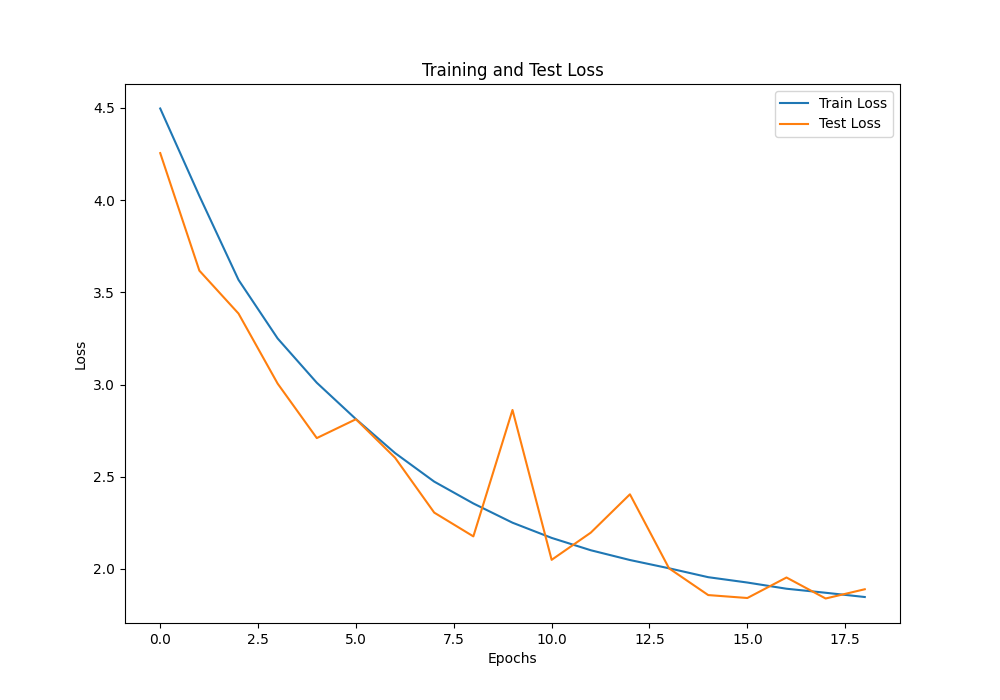
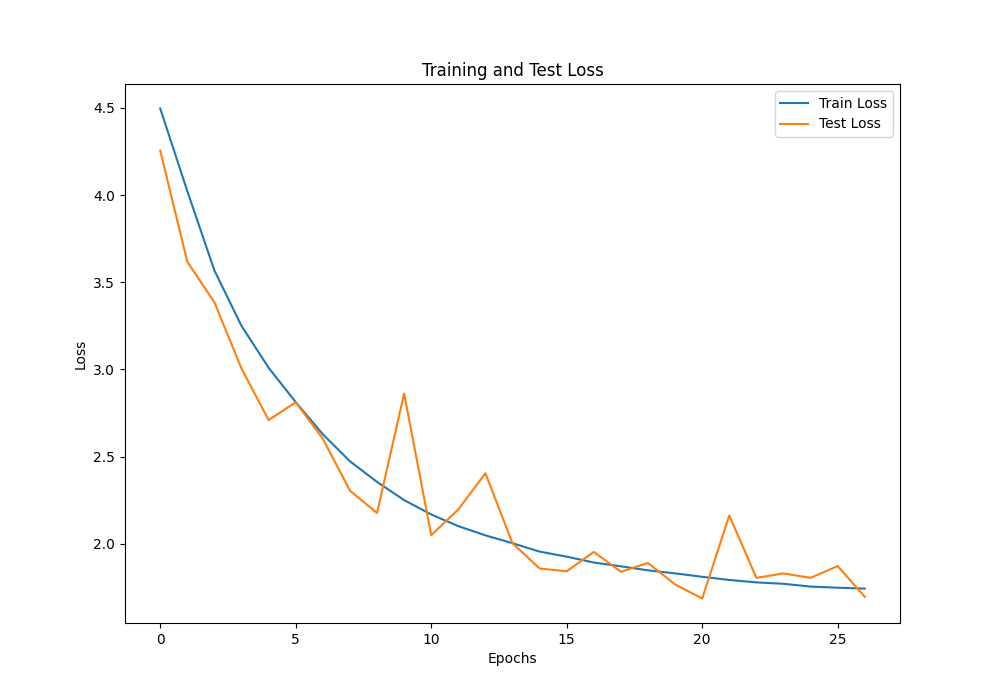
Added data fingerprint module

diff --git a/Architectures/UNet/Data_fingerprint.py b/Architectures/UNet/Data_fingerprint.py
@@ -1,0 +1,177 @@
+# %%
+from pathlib import Path
+from collections import Counter
+import matplotlib.pyplot as plt
+import itk
+from dataclasses import dataclass
+import numpy as np
+
+# Reading data
+IMAGE_EXTS = {".png", ".jpg", ".jpeg", ".tif", ".tiff"}
+DATA_FOLDER = "/Users/gastoncrecikeinbaum/Library/CloudStorage/SynologyDrive-XDMD/DaVinci/Sources/Xyall/AZ"
+data_path = Path(DATA_FOLDER)
+
+# Pixels sampled per image for intensity stats (full 4K images are overkill)
+SAMPLE_PER_IMAGE = 50_000
+_rng = np.random.default_rng(0)
+
+# %% Data features
+
+
+def _normalize_format(image):
+    if isinstance(image, itk.Image):
+        return itk.array_from_image(image)
+    else:
+        raise TypeError("Image format is not array or itk.image")
+
+
+def _to_rgb(arr):
+    """Standardize any image array to (H, W, 3): expand grayscale, drop alpha."""
+    if arr.ndim == 2:                       # grayscale -> replicate to 3 channels
+        return np.repeat(arr[..., None], 3, axis=-1)
+    return arr[..., :3]                     # RGB stays, RGBA drops alpha
+
+
+CHANNELS = ("red", "green", "blue")
+
+
+@dataclass
+class DatasetFingerprint:
+    n_images: int
+    sizes: list[list[int]]
+    channel_counts: dict[int, int]       # {n_channels: n_images}
+    shape_min: np.ndarray                # (H, W) spatial extremes / median
+    shape_median: np.ndarray
+    shape_max: np.ndarray
+    # pixels sampled per channel (the "count")
+    n_pixels: int
+    intensity_min: np.ndarray            # per-channel, shape (3,)
+    intensity_max: np.ndarray
+    mean: np.ndarray
+    std: np.ndarray
+    quartiles: np.ndarray                # rows [25%, 50%, 75%], shape (3, 3)
+    # per-channel histogram, shape (3, nbins)
+    intensity_counts: np.ndarray
+    intensity_bins: np.ndarray           # shared edges, shape (nbins + 1,)
+
+    def describe(self) -> str:
+        """Full text report: dataset meta + per-channel intensity table."""
+        def shp(a): return list(map(int, a))
+        rows = {
+            "count": [self.n_pixels] * 3,
+            "mean": self.mean,
+            "std": self.std,
+            "min": self.intensity_min,
+            "25%": self.quartiles[0],
+            "50%": self.quartiles[1],
+            "75%": self.quartiles[2],
+            "max": self.intensity_max,
+        }
+
+        meta = [
+            "Dataset fingerprint",
+            "=" * 40,
+            f"images         : {self.n_images}",
+            f"channel counts : {self.channel_counts}",
+            f"shape (H, W)   : min {shp(self.shape_min)}  "
+            f"median {shp(self.shape_median)}  max {shp(self.shape_max)}",
+            "",
+            "Per-channel intensities (sampled)",
+            "-" * 40,
+        ]
+
+        header = f"{'':>6}" + "".join(f"{c:>12}" for c in CHANNELS)
+        table = [header]
+        for name, vals in rows.items():
+            table.append(f"{name:>6}" +
+                         "".join(f"{float(v):>12.2f}" for v in vals))
+
+        return "\n".join(meta + table)
+
+    def plot_summary(self):
+        fig, (ax_hist, ax_size) = plt.subplots(1, 2, figsize=(13, 5))
+
+        # left: per-channel intensity distribution
+        for c, color in enumerate(CHANNELS):
+            ax_hist.stairs(self.intensity_counts[c], self.intensity_bins,
+                           color=color, label=f"{color} (mean {self.mean[c]:.1f})")
+            ax_hist.axvline(self.mean[c], color=color, ls="--", alpha=0.5)
+        ax_hist.set(xlabel="Intensity", ylabel="Pixel count",
+                    title="Per-channel intensity distribution")
+        ax_hist.legend()
+
+        # middle: size distribution
+        shape_counts = Counter(tuple(s) for s in self.sizes)
+        labels = [str(list(s)) for s in shape_counts]
+        ax_size.bar(range(len(shape_counts)), list(shape_counts.values()))
+        ax_size.set_xticks(range(len(shape_counts)))
+        ax_size.set_xticklabels(labels, rotation=45, ha="right")
+        ax_size.set(xlabel="Image shape", ylabel="Count",
+                    title=f"Size distribution ({len(shape_counts)} unique)")
+
+        fig.tight_layout()
+        plt.show()
+
+
+def fingerprint(data_folder) -> DatasetFingerprint:
+    n_images = 0
+    sizes = []
+    channels = []
+    voxels = []                             # each entry is (n_pixels, 3)
+    for file in Path(data_folder).rglob("*"):
+        if file.suffix.lower() not in IMAGE_EXTS:
+            continue
+        try:
+            img_array = _normalize_format(itk.imread(str(file)))
+        except Exception as err:            # skip unreadable/corrupt images
+            print(f"skipping {file.name}: {err}")
+            continue
+        sizes.append(list(img_array.shape))
+        channels.append(img_array.shape[-1] if img_array.ndim == 3 else 1)
+        vx = _to_rgb(img_array).reshape(-1, 3)
+        if len(vx) > SAMPLE_PER_IMAGE:      # subsample large images
+            vx = vx[_rng.integers(0, len(vx), SAMPLE_PER_IMAGE)]
+        voxels.append(vx)
+        n_images += 1
+
+    if not voxels:
+        raise ValueError(f"No readable images found under {data_folder}")
+
+    all_vx = np.concatenate(voxels)         # (total_voxels, 3)
+
+    # Per-channel intensity stats
+    int_min = all_vx.min(axis=0)
+    int_max = all_vx.max(axis=0)
+    mean = all_vx.mean(axis=0)
+    std = all_vx.std(axis=0)
+    quartiles = np.percentile(all_vx, [25, 50, 75], axis=0)
+    # Shared bin edges so the three channel histograms are comparable
+    bin_edges = np.histogram_bin_edges(all_vx, bins=100)
+    counts = np.stack([np.histogram(all_vx[:, c], bins=bin_edges)[0]
+                       for c in range(3)])
+
+    # Spatial size stats (first two dims = H, W)
+    hw = np.array([s[:2] for s in sizes])
+
+    return DatasetFingerprint(n_images=n_images,
+                              sizes=sizes,
+                              channel_counts=dict(Counter(channels)),
+                              shape_min=hw.min(axis=0),
+                              shape_median=np.median(hw, axis=0).astype(int),
+                              shape_max=hw.max(axis=0),
+                              n_pixels=len(all_vx),
+                              intensity_min=int_min,
+                              intensity_max=int_max,
+                              mean=mean,
+                              std=std,
+                              quartiles=quartiles,
+                              intensity_counts=counts,
+                              intensity_bins=bin_edges)
+
+
+# %% Trial
+fp = fingerprint(DATA_FOLDER)
+print(fp.describe())
+fp.plot_summary()
+
+# %%

diff --git a/Architectures/VGG-19/VGG19_NN.py b/Architectures/VGG-19/VGG19_NN.py
@@ -1,16 +1,16 @@
 # %% Adding the system path to import the dataset module
-from data.ImageNet.dataset_ImageNet100 import trainloader, testloader, validationloader
-from sklearn.metrics import accuracy_score, confusion_matrix
-import seaborn as sns
-from Modules.trainer_ImageNet100 import NN_Trainer_ImageNet100
-import numpy as np
-import matplotlib.pyplot as plt
-from torch.utils.data import DataLoader
-import torch.nn as nn
-import torchvision.transforms as transforms
-import torchvision
-import torch
 import os
+import torch
+import torchvision
+import torchvision.transforms as transforms
+import torch.nn as nn
+from torch.utils.data import DataLoader
+import matplotlib.pyplot as plt
+import numpy as np
+from Modules.trainer_ImageNet100 import NN_Trainer_ImageNet100
+import seaborn as sns
+from sklearn.metrics import accuracy_score, confusion_matrix
+from data.ImageNet.dataset_ImageNet100 import trainloader, testloader, validationloader
 os.chdir("/Users/gastoncrecikeinbaum/Documents/Data Science/Courses/Deep learning")
 
 
@@ -214,7 +214,7 @@ if __name__ == "__main__":
 
     # --- Full training ---
     trainer = NN_Trainer_ImageNet100(
-        model=VGG19(), NUM_EPOCHS=25, save_dir=os.path.join(SCRIPT_DIR, "train_progress"))
+        model=VGG19(), NUM_EPOCHS=50, save_dir=os.path.join(SCRIPT_DIR, "train_progress"))
     trainer.train()
-    trainer.get_scores()
+    # trainer.get_scores()
 # %%

diff --git a/Architectures/UNet/UNet.py b/Architectures/UNet/UNet.py
@@ -1,0 +1,28 @@
+# %% Adding the system path to import the dataset module
+import os
+import torch
+import torchvision
+import torchvision.transforms as transforms
+import torch.nn as nn
+from torch.utils.data import DataLoader
+import matplotlib.pyplot as plt
+import numpy as np
+from Modules.trainer_ImageNet100 import NN_Trainer_ImageNet100
+import seaborn as sns
+from sklearn.metrics import accuracy_score, confusion_matrix
+from data.ImageNet.dataset_ImageNet100 import trainloader, testloader, validationloader
+os.chdir("/Users/gastoncrecikeinbaum/Documents/Data Science/Courses/Deep learning")
+
+
+# Cap MPS allocation below physical RAM so an oversized batch raises a catchable
+# OOM error instead of exhausting unified memory and restarting the machine.
+# Must be set before torch initializes the MPS backend. MPS requires
+# low <= high, so lower both (defaults are 1.4 / 1.7).
+os.environ["PYTORCH_MPS_LOW_WATERMARK_RATIO"] = "0.6"
+os.environ["PYTORCH_MPS_HIGH_WATERMARK_RATIO"] = "0.7"
+
+# %%
+
+
+class UNet(nn.Module):
+    def __init__()
